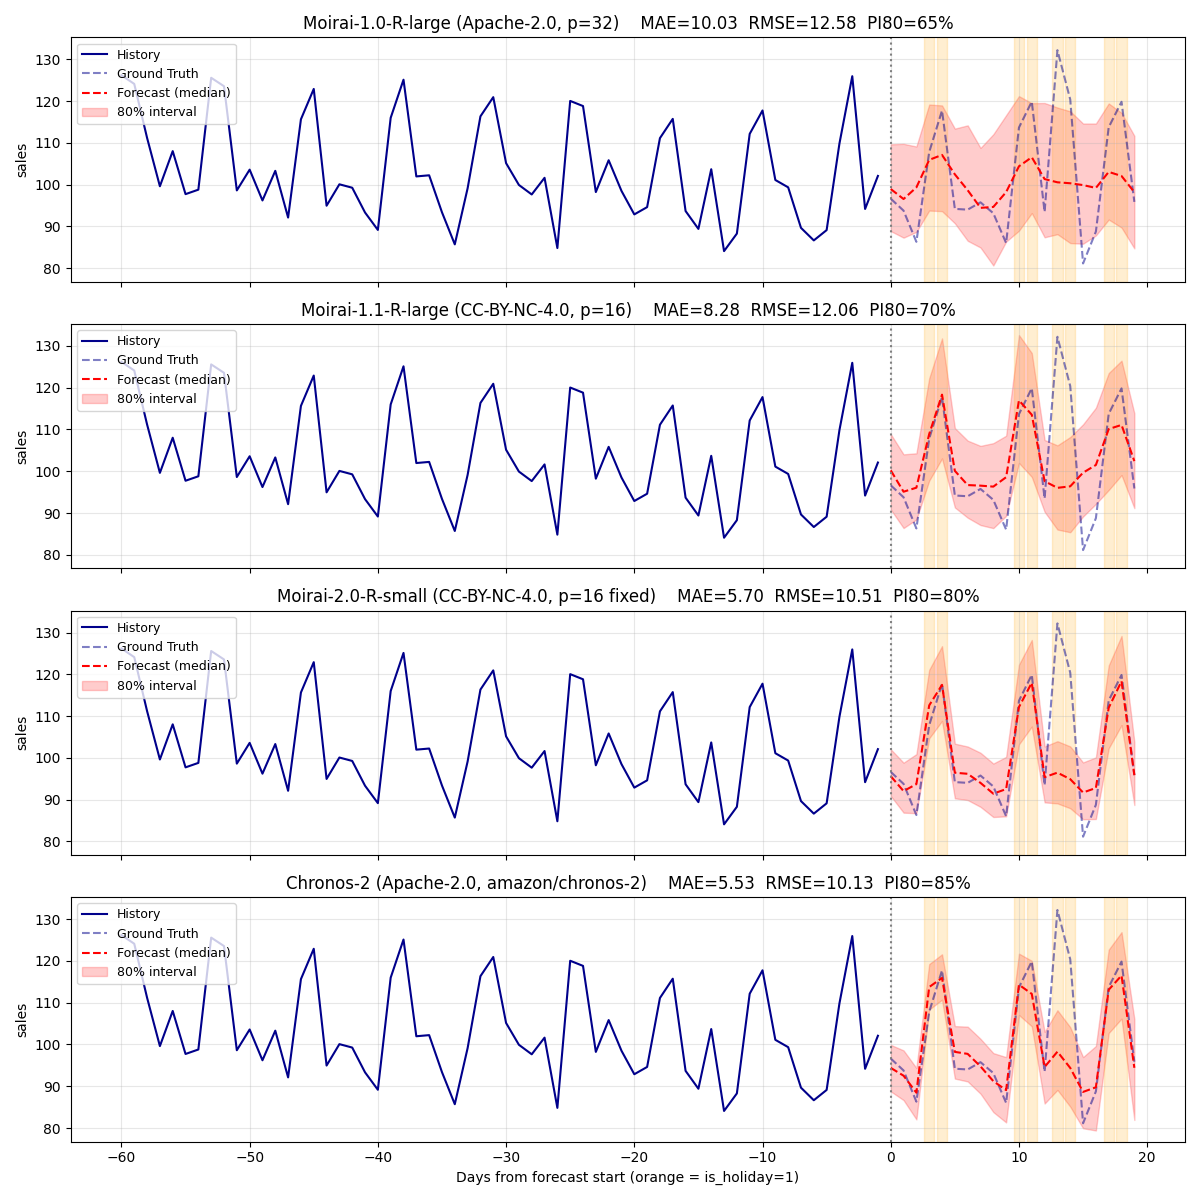
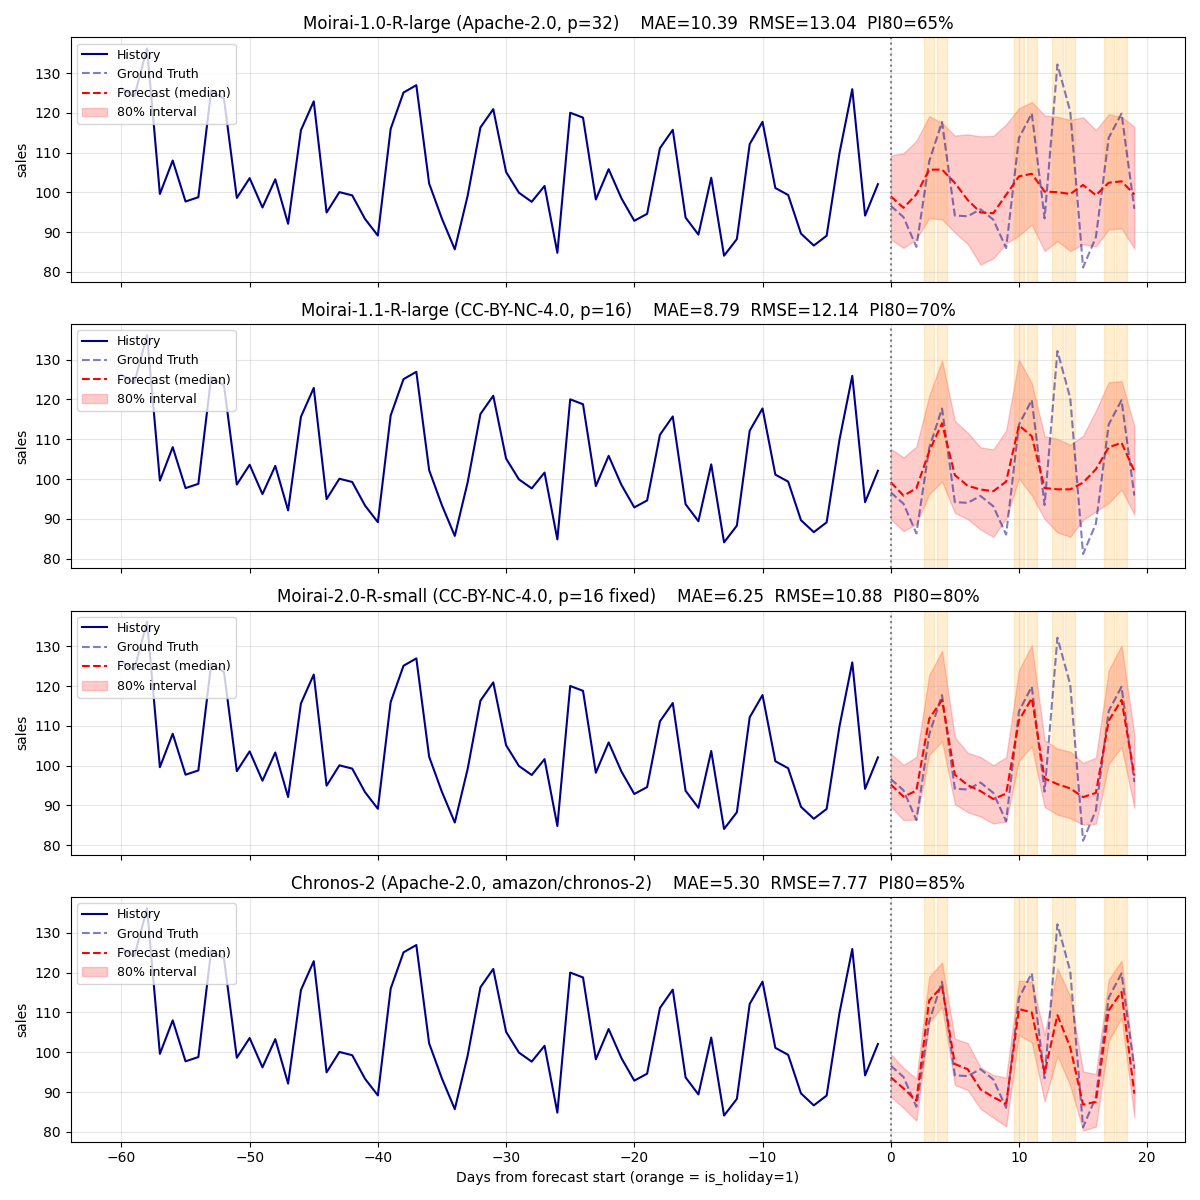
Refresh konbini benchmark with realistic JP holiday calendar
Replace the previous synthetic dataset (weekends + a tiny static set
of holidays mostly outside the 200-day context) with a realistic
2023-2024 Japanese national-holiday schedule. The new context window
contains 6 mid-week (Mon) holidays plus 58 weekends, removing the
hard is_holiday <-> Sat/Sun confounder that previously prevented any
model from disentangling the two signals.

Re-ran compare_moirai_versions.py and added a per-holiday-type
breakdown to the evaluate README. The interesting takeaway is that
even with mid-week holiday samples in context, Moirai 1.0/1.1/2.0
still essentially ignore the future is_holiday signal on the
unfamiliar Tue/Wed Christmas dates, while Chronos-2 picks up ~42% of
the true irregular-holiday spike (+14.41 vs ground-truth +34.69).
Chronos-2 also wins overall: MAE 5.30, RMSE 7.77, PI80 85%.

https://claude.ai/code/session_01PCJnfNg9NjWrp7ZmX5vcHJ

diff --git a/time_series_forecasting/moirai/evaluate/README.md b/time_series_forecasting/moirai/evaluate/README.md
@@ -37,13 +37,38 @@ shaded area is the 80% prediction interval.
 
 | Model | License | MAE | RMSE | PI80 coverage | Median gap (holiday − non-holiday) |
 |---|---|--:|--:|--:|--:|
-| Moirai-1.0-R-large (p=32) | **Apache-2.0** | 10.03 | 12.58 | 65% | +5.26 |
-| Moirai-1.1-R-large (p=16) | CC-BY-NC-4.0 | 8.28 | 12.06 | 70% | +10.52 |
-| Moirai-2.0-R-small (p=16) | CC-BY-NC-4.0 | 5.70 | 10.51 | 80% | +16.26 |
-| **Chronos-2** | **Apache-2.0** | **5.53** | **10.13** | **85%** | **+16.97** |
+| Moirai-1.0-R-large (p=32) | **Apache-2.0** | 10.39 | 13.04 | 65% | +4.37 |
+| Moirai-1.1-R-large (p=16) | CC-BY-NC-4.0 | 8.79 | 12.14 | 70% | +8.24 |
+| Moirai-2.0-R-small (p=16) | CC-BY-NC-4.0 | 6.25 | 10.88 | 80% | +14.95 |
+| **Chronos-2** | **Apache-2.0** | **5.30** | **7.77** | **85%** | **+19.97** |
 
 Reference: observed `sales` gap between holiday and non-holiday days in
-the past 200 days of context is **+22.34**.
+the past 200 days of context is **+23.61**.
+
+### Per-holiday-type breakdown
+
+The 20-day prediction window contains two kinds of `is_holiday=1` days:
+6 weekend days (Sat/Sun) and 2 mid-week irregular days (Tue/Wed —
+Christmas Eve and Christmas in the synthetic data). Foundation models
+typically pick up the weekend pattern from the target's own auto-
+correlation, but capturing the irregular one requires actually trusting
+the future `is_holiday` covariate. Splitting the gap by holiday type:
+
+| Model | Irregular gap (Tue/Wed) | Weekend gap (Sat/Sun) |
+|---|--:|--:|
+| Moirai-1.0-R-large (p=32) | +1.08 | +5.47 |
+| Moirai-1.1-R-large (p=16) | -1.49 | +11.48 |
+| Moirai-2.0-R-small | +0.51 | +19.77 |
+| **Chronos-2** | **+14.41** | +21.83 |
+| Ground truth | +34.69 | +23.85 |
+
+Among the four, **only Chronos-2 captures the irregular mid-week
+holiday spikes** (~42% of the true effect), while the Moirai family
+basically ignores the future `is_holiday` signal once the date does not
+match Sat/Sun (or Mon, the only weekday on which mid-week holidays
+appear in the 200-day context). This is a structural artefact of how
+each model fuses covariates with the target time-series, not a defect
+of the export.
 
 ## Takeaways
 
